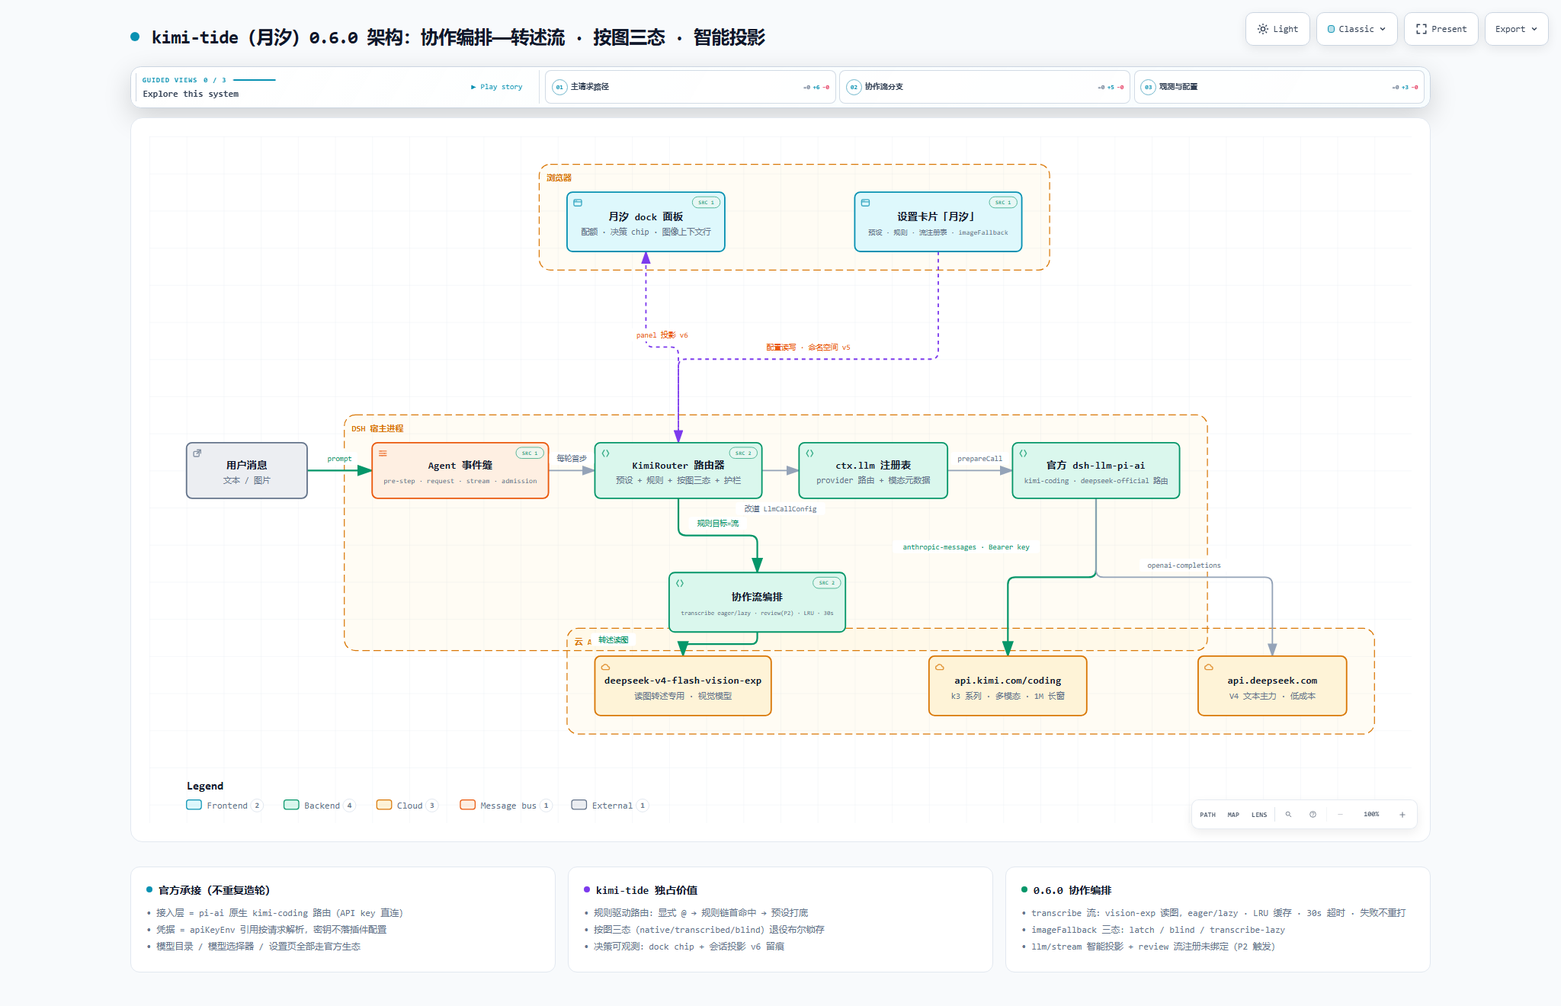
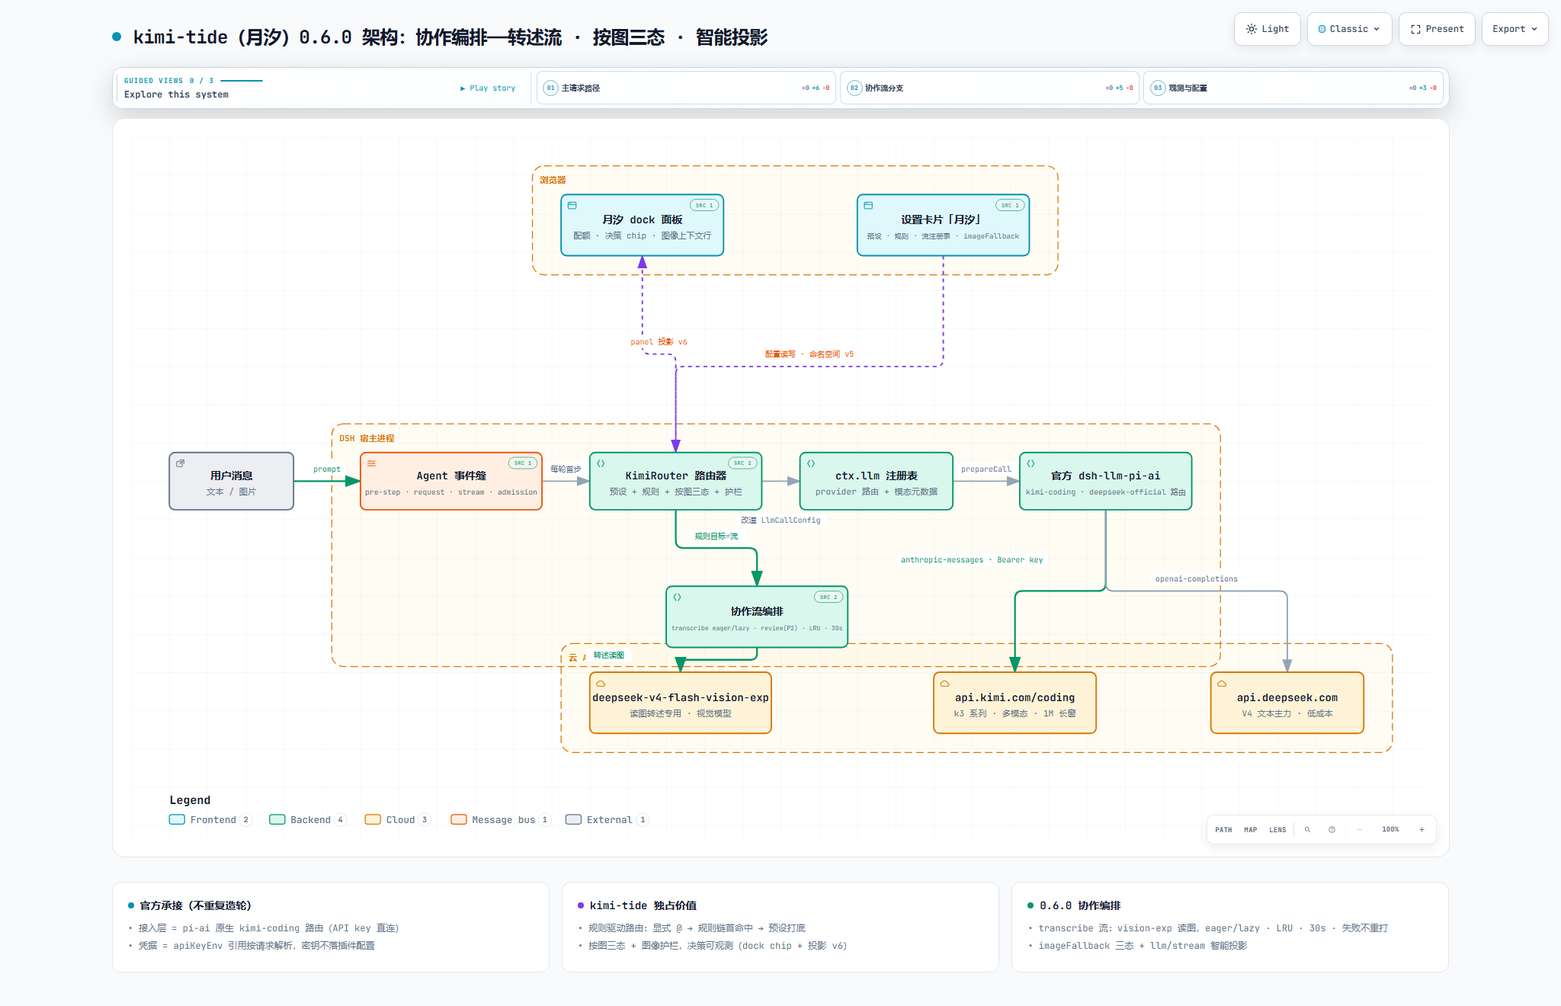
docs(readme): K3 评审修复波——visual-check 全绿 + 中英镜像数字/措辞对齐
K3 真身审查轮（Important×2 + Minor×8，Critical 0）修复闭环：
- I-1：架构图结论卡片瘦身（3×3→3×2 条）+ viewBox 740→734，visual-check
  四视口明暗全绿（1440×900 收据 fail→pass，与 showcase 9/9 叙事一致）
- I-2：路线图英文 0.6.x 池 '15 more'→'14 more'（4 具名 + 14 = 18，与中文 18 条对齐）
- M-1：.pre-v3 留档标注历史路径（0.5.0 起并入 .pre-v4）
- M-2：前置条件措辞改为 dsh-* 组件 peer 依赖锁定 ^0.1.1-rc.2（package.json 实况）
- M-3：贡献者致谢范围放宽 0.5.x–0.6.0
- M-4：引言补「主力文本模型」限定（与 vision-exp 多模态目录事实自洽）
- M-5：评审流表述改为「预置注册，P2 命令式触发」
- M-6/7/8：K3 判定无需改动（提交信息锚点/图形简化/节点分组）
验证：archify 9/9 + visual-check exit 0 + 0 断链 + audit 过（337/337 基线不变）

diff --git a/docs/assets/readme/kimi-tide-architecture.html b/docs/assets/readme/kimi-tide-architecture.html
@@ -4883,7 +4883,7 @@
 
     <!-- Main Diagram -->
     <div class="diagram-container" data-detail-level="read">
-      <svg viewBox="0 0 1360 740" role="img" aria-labelledby="archify-diagram-title archify-diagram-description" data-preset="classic" data-quality-profile="showcase">
+      <svg viewBox="0 0 1360 734" role="img" aria-labelledby="archify-diagram-title archify-diagram-description" data-preset="classic" data-quality-profile="showcase">
         <title id="archify-diagram-title">kimi-tide（月汐）0.6.0 架构：协作编排——转述流 · 按图三态 · 智能投影</title>
         <desc id="archify-diagram-description">A architecture diagram generated by Archify.</desc>
         <!-- Definitions -->
@@ -5110,26 +5110,26 @@
 
         <!-- Legend -->
         <g data-legend data-legend-bridge>
-          <text x="40" y="704" class="t-primary" font-size="12" font-weight="650">Legend</text>
-          <g data-legend-semantic-kind="frontend" data-legend-kind="frontend" data-legend-label="Frontend" data-legend-x="40" data-legend-baseline="724" data-legend-width="83">
-            <rect x="40" y="715" width="16" height="10" rx="2.5" class="c-frontend" stroke-width="1"/>
-            <text x="62" y="724" class="t-muted" font-size="10" font-weight="500">Frontend</text>
+          <text x="40" y="698" class="t-primary" font-size="12" font-weight="650">Legend</text>
+          <g data-legend-semantic-kind="frontend" data-legend-kind="frontend" data-legend-label="Frontend" data-legend-x="40" data-legend-baseline="718" data-legend-width="83">
+            <rect x="40" y="709" width="16" height="10" rx="2.5" class="c-frontend" stroke-width="1"/>
+            <text x="62" y="718" class="t-muted" font-size="10" font-weight="500">Frontend</text>
           </g>
-          <g data-legend-semantic-kind="backend" data-legend-kind="backend" data-legend-label="Backend" data-legend-x="145" data-legend-baseline="724" data-legend-width="78">
-            <rect x="145" y="715" width="16" height="10" rx="2.5" class="c-backend" stroke-width="1"/>
-            <text x="167" y="724" class="t-muted" font-size="10" font-weight="500">Backend</text>
+          <g data-legend-semantic-kind="backend" data-legend-kind="backend" data-legend-label="Backend" data-legend-x="145" data-legend-baseline="718" data-legend-width="78">
+            <rect x="145" y="709" width="16" height="10" rx="2.5" class="c-backend" stroke-width="1"/>
+            <text x="167" y="718" class="t-muted" font-size="10" font-weight="500">Backend</text>
           </g>
-          <g data-legend-semantic-kind="cloud" data-legend-kind="cloud" data-legend-label="Cloud" data-legend-x="245" data-legend-baseline="724" data-legend-width="68">
-            <rect x="245" y="715" width="16" height="10" rx="2.5" class="c-cloud" stroke-width="1"/>
-            <text x="267" y="724" class="t-muted" font-size="10" font-weight="500">Cloud</text>
+          <g data-legend-semantic-kind="cloud" data-legend-kind="cloud" data-legend-label="Cloud" data-legend-x="245" data-legend-baseline="718" data-legend-width="68">
+            <rect x="245" y="709" width="16" height="10" rx="2.5" class="c-cloud" stroke-width="1"/>
+            <text x="267" y="718" class="t-muted" font-size="10" font-weight="500">Cloud</text>
           </g>
-          <g data-legend-semantic-kind="messagebus" data-legend-kind="messagebus" data-legend-label="Message bus" data-legend-x="335" data-legend-baseline="724" data-legend-width="98">
-            <rect x="335" y="715" width="16" height="10" rx="2.5" class="c-messagebus" stroke-width="1"/>
-            <text x="357" y="724" class="t-muted" font-size="10" font-weight="500">Message bus</text>
+          <g data-legend-semantic-kind="messagebus" data-legend-kind="messagebus" data-legend-label="Message bus" data-legend-x="335" data-legend-baseline="718" data-legend-width="98">
+            <rect x="335" y="709" width="16" height="10" rx="2.5" class="c-messagebus" stroke-width="1"/>
+            <text x="357" y="718" class="t-muted" font-size="10" font-weight="500">Message bus</text>
           </g>
-          <g data-legend-semantic-kind="external" data-legend-kind="external" data-legend-label="External" data-legend-x="455" data-legend-baseline="724" data-legend-width="83">
-            <rect x="455" y="715" width="16" height="10" rx="2.5" class="c-external" stroke-width="1"/>
-            <text x="477" y="724" class="t-muted" font-size="10" font-weight="500">External</text>
+          <g data-legend-semantic-kind="external" data-legend-kind="external" data-legend-label="External" data-legend-x="455" data-legend-baseline="718" data-legend-width="83">
+            <rect x="455" y="709" width="16" height="10" rx="2.5" class="c-external" stroke-width="1"/>
+            <text x="477" y="718" class="t-muted" font-size="10" font-weight="500">External</text>
           </g>
         </g>
       </svg>
@@ -5323,7 +5323,6 @@
         <ul>
           <li>&bull; 接入层 = pi-ai 原生 kimi-coding 路由（API key 直连）</li>
           <li>&bull; 凭据 = apiKeyEnv 引用按请求解析，密钥不落插件配置</li>
-          <li>&bull; 模型目录 / 模型选择器 / 设置页全部走官方生态</li>
         </ul>
       </div>
 
@@ -5334,8 +5333,7 @@
         </div>
         <ul>
           <li>&bull; 规则驱动路由：显式 @ → 规则链首命中 → 预设打底</li>
-          <li>&bull; 按图三态（native/transcribed/blind）退役布尔锁存</li>
-          <li>&bull; 决策可观测：dock chip + 会话投影 v6 留痕</li>
+          <li>&bull; 按图三态 + 图像护栏，决策可观测（dock chip + 投影 v6）</li>
         </ul>
       </div>
 
@@ -5345,9 +5343,8 @@
           <h3>0.6.0 协作编排</h3>
         </div>
         <ul>
-          <li>&bull; transcribe 流：vision-exp 读图，eager/lazy · LRU 缓存 · 30s 超时 · 失败不重打</li>
-          <li>&bull; imageFallback 三态：latch / blind / transcribe-lazy</li>
-          <li>&bull; llm/stream 智能投影 + review 流注册未绑定（P2 触发）</li>
+          <li>&bull; transcribe 流：vision-exp 读图，eager/lazy · LRU · 30s · 失败不重打</li>
+          <li>&bull; imageFallback 三态 + llm/stream 智能投影</li>
         </ul>
       </div>
     </div>

diff --git a/docs/assets/readme/kimi-tide-architecture.visual-check.html b/docs/assets/readme/kimi-tide-architecture.visual-check.html
@@ -9,15 +9,15 @@
 </style>
 </head>
 <body>
-<header><h1>Archify visual-check</h1><p>kimi-tide-architecture.html · automated containment fail · visual review pending</p></header>
+<header><h1>Archify visual-check</h1><p>kimi-tide-architecture.html · automated containment pass · visual review pending</p></header>
 <main class="grid">
       <figure>
         <img src="kimi-tide-architecture.visual-check.1440x900.light.png" alt="light 1440 by 900">
-        <figcaption><strong>LIGHT</strong> · 1440×900 · containment fail</figcaption>
+        <figcaption><strong>LIGHT</strong> · 1440×900 · containment pass</figcaption>
       </figure>
       <figure>
         <img src="kimi-tide-architecture.visual-check.1440x900.dark.png" alt="dark 1440 by 900">
-        <figcaption><strong>DARK</strong> · 1440×900 · containment fail</figcaption>
+        <figcaption><strong>DARK</strong> · 1440×900 · containment pass</figcaption>
       </figure>
       <figure>
         <img src="kimi-tide-architecture.visual-check.2048x1320.light.png" alt="light 2048 by 1320">

diff --git a/README.md b/README.md
@@ -5,7 +5,7 @@
   <img src="docs/assets/readme/hero.svg" width="100%" alt="kimi-tide 月汐 — DSH 模型路由插件：每步自动选模型，每个决策看得见">
 </p>
 
-DSH 里一个会话从头到尾只用一个模型：**DeepSeek V4** 便宜、快，但**看不懂图片**；**Kimi K3** 多模态、1M 超长上下文、编码强，但**有额度与成本**。写代码到一半想贴张截图，得手动切模型；切完又忘了切回来，额度哗哗流走。**月汐就是这笔账的自动交警**：你只管干活，它按任务类型、预算和模型长板，在每个步骤自动选路——选谁、为什么选，全都摆在面板上。
+DSH 里一个会话从头到尾只用一个模型：**DeepSeek V4** 主力文本模型便宜、快，但**看不懂图片**；**Kimi K3** 多模态、1M 超长上下文、编码强，但**有额度与成本**。写代码到一半想贴张截图，得手动切模型；切完又忘了切回来，额度哗哗流走。**月汐就是这笔账的自动交警**：你只管干活，它按任务类型、预算和模型长板，在每个步骤自动选路——选谁、为什么选，全都摆在面板上。
 
 ---
 
@@ -41,7 +41,7 @@ flowchart LR
 
 - 🚦 **预设路由**：内置「省钱」「能力」两种预设，也可自建命名预设，设置卡片一键全局切换；按**每个步骤**决策，不是一会话绑定到死。
 - 🎯 **规则引擎**（0.5.0）：规则 = `带图` / 命名关键词组（内置「代码」「闲聊」两组，词表可改、可自建）；首条命中生效，未命中走预设打底，不可用目标自动降级跳过。
-- 🌊 **协作编排**（0.6.0）：规则目标可指向**协作流**——预置图像转述流（vision-exp 读图转文字，eager/lazy 双时态，缓存+超时+失败不重打）与评审流（P2 触发）；预设级带图兜底三态（锁存/盲答/懒转述）；`llm/stream` 智能投影让文本模型凭转述文字接力看图。
+- 🌊 **协作编排**（0.6.0）：规则目标可指向**协作流**——预置图像转述流（vision-exp 读图转文字，eager/lazy 双时态，缓存+超时+失败不重打）与评审流（预置注册，P2 命令式触发）；预设级带图兜底三态（锁存/盲答/懒转述）；`llm/stream` 智能投影让文本模型凭转述文字接力看图。
 - 🖼 **图像护栏**：带图消息自动改道多模态模型；按图三态状态表（native/transcribed/blind）防止历史含图后文本模型崩溃（`UNSUPPORTED_CONTENT`）。
 - 👁 **决策可观测**：dock 面板实时显示「这步选了谁、为什么」，会话日志留痕可复查——不黑箱。
 - ⚙ **官方设置卡片**：路由配置就在 DSH「设置 → 月汐」里编辑，原生分层持久化，重启保持。
@@ -58,7 +58,7 @@ flowchart LR
 ### 1. 前置条件
 
 - Node.js ≥ 22
-- DSH `@deepseek-ai/dsh@0.1.1-rc.2` 及以上（0.6.0 起 peer 依赖；设置卡片依赖 `dsh-settings`）
+- DSH `@deepseek-ai/dsh@0.1.1-rc.2` 及以上（0.6.0 起 dsh-* 组件 peer 依赖锁定 `^0.1.1-rc.2`；设置卡片依赖 `dsh-settings`）
 - 一把 **Kimi Code Console API Key**（Kimi 控制台获取）
 
 ### 2. 配置 Kimi 路由（官方 Models 页）
@@ -178,7 +178,7 @@ timeline
 | `flows` | 预置 transcribe/review | 协作流注册表（规则目标可引用）；预置流注册但不绑定 |
 | `keywordGroups` | 内置 `code` / `chitchat` | 命名关键词组词表（用户可增删改） |
 
-> **持久化**：设置命名空间（base 层 = 部署基座 / user 层 = 用户编辑，revision 冲突检测）→ 无设置服务的宿主回退 sidecar 文件 → 旧 sidecar 迁移后留档 `.legacy-imported`；0.4.x 升级时 `kimi-tide/*` 命名自动迁移为 `kimi-coding/*` 并留档 `.pre-v3`；**0.5.0 升级时 v1-v3 评分配置自动迁移为预设/规则（v4）并留档 `.pre-v4`**（scores/预算参数不迁移）；**0.6.0 升级时 v4 存量自动迁移为 v5（flows 注册表 + imageFallback）并留档 `.pre-v5`**。
+> **持久化**：设置命名空间（base 层 = 部署基座 / user 层 = 用户编辑，revision 冲突检测）→ 无设置服务的宿主回退 sidecar 文件 → 旧 sidecar 迁移后留档 `.legacy-imported`；0.4.x 时代升级的用户走 `kimi-tide/*` → `kimi-coding/*` 改名 + `.pre-v3` 留档（历史路径，0.5.0 起并入 `.pre-v4`）；**0.5.0 升级时 v1-v3 评分配置自动迁移为预设/规则（v4）并留档 `.pre-v4`**（scores/预算参数不迁移）；**0.6.0 升级时 v4 存量自动迁移为 v5（flows 注册表 + imageFallback）并留档 `.pre-v5`**。
 
 ### 插件级配置（`cordis.patch.yml`，0.4.x 起大幅精简）
 
@@ -261,7 +261,7 @@ A：DSH 设置命名空间 `kimi-tide-router`（设置 → 月汐编辑）；无
 
 ## 贡献者
 
-- 感谢 [@dracpet](https://github.com/dracpet) 的实机诊断与社区贡献：[PR #1](https://github.com/tafcear/kimi-tide/pull/1)（OAuth 过期刷新）、[PR #2](https://github.com/tafcear/kimi-tide/pull/2)（`commands/execute` 跨宿主契约容错）、[PR #3](https://github.com/tafcear/kimi-tide/pull/3)（YAML null 配置归一化）与 [Issue #4](https://github.com/tafcear/kimi-tide/issues/4)（rc.2 投影 wire 契约诊断）——你的反馈直接加固了 0.6.0 的发布质量。
+- 感谢 [@dracpet](https://github.com/dracpet) 的实机诊断与社区贡献：[PR #1](https://github.com/tafcear/kimi-tide/pull/1)（OAuth 过期刷新）、[PR #2](https://github.com/tafcear/kimi-tide/pull/2)（`commands/execute` 跨宿主契约容错）、[PR #3](https://github.com/tafcear/kimi-tide/pull/3)（YAML null 配置归一化）与 [Issue #4](https://github.com/tafcear/kimi-tide/issues/4)（rc.2 投影 wire 契约诊断）——你的反馈直接加固了 0.5.x–0.6.0 的发布质量。
 - 也欢迎任何形式的贡献：报告问题、提交修复，或来 [Discussions](https://github.com/tafcear/kimi-tide/discussions) 聊聊使用体验。
 
 ---
@@ -286,7 +286,7 @@ A：DSH 设置命名空间 `kimi-tide-router`（设置 → 月汐编辑）；无
   <img src="docs/assets/readme/hero-en.svg" width="100%" alt="kimi-tide — a model router plugin for DeepSeek Harness: picks the right model for every step, and shows you exactly why">
 </p>
 
-In DSH, a session sticks to one model from start to finish. But in reality: **DeepSeek V4** is cheap and fast, but **cannot see images**; **Kimi K3** is multimodal with a 1M context window and strong coding, but it **costs quota and money**. Mid-task you want to paste a screenshot — switch models by hand; then you forget to switch back and quota burns away. **kimi-tide is the automatic traffic controller for that trade-off**: you just do the work; it picks the route per step based on task type, budget, and each model's strengths — and shows you who it picked and why, right on the panel.
+In DSH, a session sticks to one model from start to finish. But in reality: **DeepSeek V4**'s text models are cheap and fast, but **cannot see images**; **Kimi K3** is multimodal with a 1M context window and strong coding, but it **costs quota and money**. Mid-task you want to paste a screenshot — switch models by hand; then you forget to switch back and quota burns away. **kimi-tide is the automatic traffic controller for that trade-off**: you just do the work; it picks the route per step based on task type, budget, and each model's strengths — and shows you who it picked and why, right on the panel.
 
 ---
 
@@ -322,7 +322,7 @@ flowchart LR
 
 - 🚦 **Preset-based routing**: built-in "saving" and "capability" presets, plus your own named presets, switched globally from the settings card; decisions are made **per step**, not per session.
 - 🎯 **Rule-driven routing** (0.5.0): a rule is *image-bearing* or a *named keyword group* (built-in "code" and "chitchat", custom groups allowed); first hit in list order wins; a miss routes to the preset default (baseline), and unavailable rule targets are skipped automatically.
-- 🌊 **Collaboration flows** (0.6.0): rule targets may point at a **collaboration flow** — the built-in image-transcribe flow (vision-exp reads images into text, eager/lazy timing, cache + timeout + no-retry-on-failure) and a review flow (P2 trigger); per-preset image fallback (latch/blind/transcribe-lazy); `llm/stream` smart projection lets text models pick up image context from the transcription.
+- 🌊 **Collaboration flows** (0.6.0): rule targets may point at a **collaboration flow** — the built-in image-transcribe flow (vision-exp reads images into text, eager/lazy timing, cache + timeout + no-retry-on-failure) and a review flow (registered, P2 command trigger); per-preset image fallback (latch/blind/transcribe-lazy); `llm/stream` smart projection lets text models pick up image context from the transcription.
 - 🖼 **Image guard**: image-bearing steps reroute to multimodal candidates automatically; the per-image three-state table (native/transcribed/blind) prevents text-model crashes (`UNSUPPORTED_CONTENT`) once images enter history.
 - 👁 **Observable decisions**: the dock panel shows "who was picked and why" for every step, with session-log traceability — no black box.
 - ⚙ **Official settings card**: router config lives in DSH "Settings → 月汐", natively persisted with layered overrides and restart-safe storage.
@@ -339,7 +339,7 @@ flowchart LR
 ### 1. Prerequisites
 
 - Node.js ≥ 22
-- DSH `@deepseek-ai/dsh@0.1.1-rc.2` or newer (peer dependency since 0.6.0; the settings card needs `dsh-settings`)
+- DSH `@deepseek-ai/dsh@0.1.1-rc.2` or newer (since 0.6.0 the dsh-* component peer deps pin `^0.1.1-rc.2`; the settings card needs `dsh-settings`)
 - A **Kimi Code Console API key** (from the Kimi console)
 
 ### 2. Configure the Kimi route (official Models page)
@@ -459,7 +459,7 @@ Presets are data: built-ins and custom presets share one shape — create/duplic
 | `flows` | built-in transcribe/review | collaboration-flow registry (referenced by rule targets); built-ins ship registered but unbound |
 | `keywordGroups` | built-in `code` / `chitchat` | named keyword-group word lists (user-editable) |
 
-> **Persistence**: settings namespace (base layer = deployment seed / user layer = edits, revision conflict detection) → sidecar fallback on hosts without a settings service → the old sidecar is archived as `.legacy-imported`; on 0.4.x upgrade, `kimi-tide/*` names auto-migrate to `kimi-coding/*` with a `.pre-v3` backup; **on 0.5.0 upgrade, v1-v3 scoring configs auto-migrate into the v4 preset/rule shape with a `.pre-v4` backup** (scores/budget knobs are not migrated); **on 0.6.0 upgrade, v4 configs auto-migrate to v5 (flows registry + imageFallback) with a `.pre-v5` backup**.
+> **Persistence**: settings namespace (base layer = deployment seed / user layer = edits, revision conflict detection) → sidecar fallback on hosts without a settings service → the old sidecar is archived as `.legacy-imported`; users who upgraded at 0.4.x got the `kimi-tide/*` → `kimi-coding/*` rename with a `.pre-v3` backup (historical path — from 0.5.0 it folds into `.pre-v4`); **on 0.5.0 upgrade, v1-v3 scoring configs auto-migrate into the v4 preset/rule shape with a `.pre-v4` backup** (scores/budget knobs are not migrated); **on 0.6.0 upgrade, v4 configs auto-migrate to v5 (flows registry + imageFallback) with a `.pre-v5` backup**.
 
 ### Plugin-level (`cordis.patch.yml`, greatly slimmed since 0.4.x)
 
@@ -517,7 +517,7 @@ Quality bar: full test suite green + zero typecheck errors + successful build be
 - **0.4.0**: settings migration (`bc31b69`) plus **API-key direct connection** (pi-ai native `kimi-coding` route, self-built OAuth access retired, provider-rename auto-migration — [design spec](docs/superpowers/specs/2026-08-20-api-key-direct-design.md)); GitHub Actions release pipeline ✅ (fully automatic on tag); slider step fix ✅ (a45d722).
 - **0.5.0**: **rule-driven routing** — named presets (saving/capability/custom) + ordered rules (image / keyword groups) + baseline semantics + unavailable-target degradation, one-click global switch; the capability scoring engine is fully retired (scores/classify/budget window/score sliders all removed), the candidate pool is now a full enumeration, and v1-v3 stored configs auto-migrate with a `.pre-v4` backup ([design spec](docs/superpowers/specs/2026-08-20-rule-driven-routing-design.md); release version: 209/209 green + typecheck 0 + build ok; live acceptance included a migration-defect fix).
 - **0.6.0**: **collaboration flows** — rule targets generalize to "model | collaboration flow"; the built-in image-transcribe flow (vision-exp, eager/lazy) and review flow (P2 trigger) ship registered but unbound; the per-image three-state table retires the boolean latch; per-preset `imageFallback` (latch/blind/transcribe-lazy); `llm/stream` smart projection (transcribed blocks → transcription text); panel v6 gains the image-context line + flow events; v4 stored configs auto-migrate with a `.pre-v5` backup ([design spec](docs/superpowers/specs/2026-08-22-collaboration-flows-design.md); release version: 337/337 green + typecheck 0 + build ok; 10-item live acceptance all passed incl. the T4 gate; fixed the rc.2 host model-selection override during acceptance — `e2d3c68`).
-- **Planned**: review-flow command trigger (P2, `/kimi-tide review`), subagent transcription (P3, S2 contract GO); the 0.6.x pool — panel image-context client rendering, M-3 validation hardening, lazy-failure direct tests, flow-creation UI, and 15 more items. ~~Mode presets~~ (the existing settings card suffices — not planned), ~~subagent image outsourcing~~ (official subagents are text-only — dropped), ~~kimi subagent backend~~ (achieved via routing — closed).
+- **Planned**: review-flow command trigger (P2, `/kimi-tide review`), subagent transcription (P3, S2 contract GO); the 0.6.x pool — panel image-context client rendering, M-3 validation hardening, lazy-failure direct tests, flow-creation UI, and 14 more items. ~~Mode presets~~ (the existing settings card suffices — not planned), ~~subagent image outsourcing~~ (official subagents are text-only — dropped), ~~kimi subagent backend~~ (achieved via routing — closed).
 
 ---
 
@@ -542,7 +542,7 @@ A: In the DSH settings namespace `kimi-tide-router` (edited via Settings → 月
 
 ## Contributors
 
-- Thanks to [@dracpet](https://github.com/dracpet) for live-verified diagnosis and community contributions: [PR #1](https://github.com/tafcear/kimi-tide/pull/1) (OAuth expiry refresh), [PR #2](https://github.com/tafcear/kimi-tide/pull/2) (`commands/execute` across host contract versions), [PR #3](https://github.com/tafcear/kimi-tide/pull/3) (YAML-null config normalization), and [Issue #4](https://github.com/tafcear/kimi-tide/issues/4) (rc.2 projection wire-contract diagnosis) — your feedback hardened the 0.6.0 release.
+- Thanks to [@dracpet](https://github.com/dracpet) for live-verified diagnosis and community contributions: [PR #1](https://github.com/tafcear/kimi-tide/pull/1) (OAuth expiry refresh), [PR #2](https://github.com/tafcear/kimi-tide/pull/2) (`commands/execute` across host contract versions), [PR #3](https://github.com/tafcear/kimi-tide/pull/3) (YAML-null config normalization), and [Issue #4](https://github.com/tafcear/kimi-tide/issues/4) (rc.2 projection wire-contract diagnosis) — your feedback hardened the 0.5.x–0.6.0 releases.
 - Contributions of any form are welcome: report issues, send fixes, or share how you use it in [Discussions](https://github.com/tafcear/kimi-tide/discussions).
 
 ---
